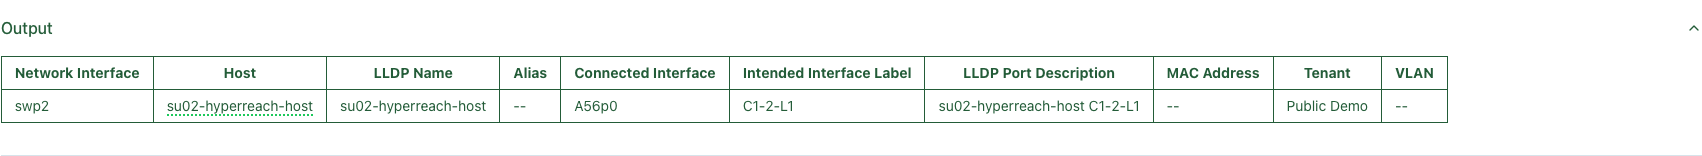
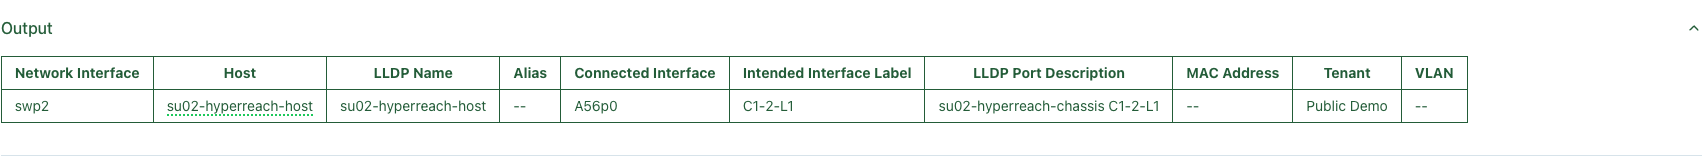
docs: align 1.4.1 Hyper-reach examples with chassis fixture (#455)
(cherry picked from commit 226273aeb0319f887fc126333e53ed4bbc3e7240)

diff --git a/ui/tests/docs-screenshots/hyperreachReports.spec.ts b/ui/tests/docs-screenshots/hyperreachReports.spec.ts
@@ -33,7 +33,7 @@ const examples = [
     description: STAGE_DESCRIPTION,
     display: reports.cableValidation,
     image: "cable-validation-report-example.png",
-    observedDescription: "su02-hyperreach-host A56p0",
+    observedDescription: "su02-hyperreach-chassis A56p0",
   },
   {
     id: "docs-hyperreach-connected-host",
@@ -42,7 +42,7 @@ const examples = [
     description: "Get connected host data",
     display: reports.connectedHostMetadata,
     image: "workflows/connected-host-metadata-result.png",
-    observedDescription: "su02-hyperreach-host C1-2-L1",
+    observedDescription: "su02-hyperreach-chassis C1-2-L1",
   },
 ];
 
